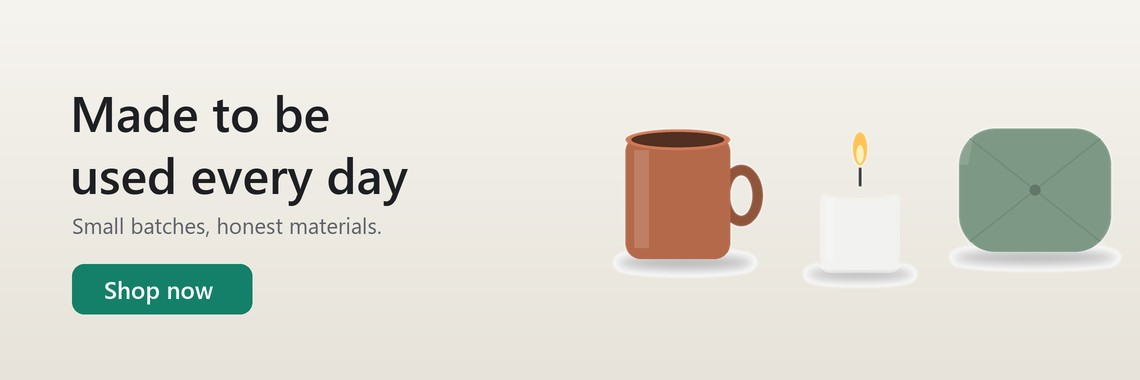
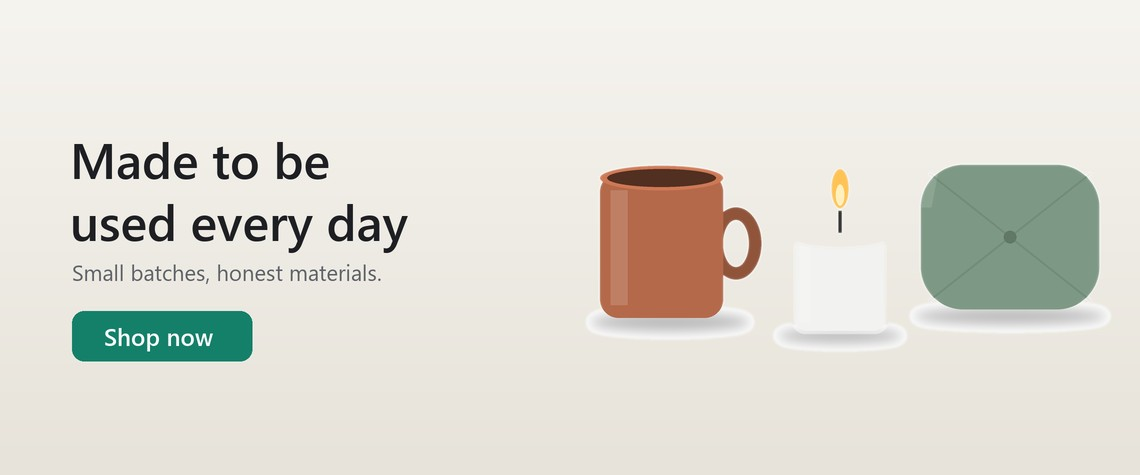
Add-to-cart confirmation as a modal (all themes); home slider 25% taller (1140x475)

diff --git a/assets/src/js/components/cart-added-modal.js b/assets/src/js/components/cart-added-modal.js
@@ -1,0 +1,90 @@
+/**
+ * "Added to cart" confirmation: a modal with the product (picture + name) and
+ * two choices - keep shopping, or go to the cart.
+ *
+ * Replaces the corner toast for a successful add-to-cart (a toast in the
+ * bottom corner is easy to miss and gives no next step). Errors still use
+ * toasts. One `mc-modal` is built on first use and reused, same approach as
+ * `quick-order.js`. Closing goes through the shared
+ * `[data-mc-action="close-modal"]` handler in `modal.js`.
+ *
+ * Called from `product-card.js` after `addToCart()` succeeds, for every
+ * theme: the markup lives here, themes only restyle `.mc-modal` through
+ * tokens. Texts come from the button's data attributes (translated
+ * server-side): `data-mc-text-added` (title), `data-mc-text-continue`,
+ * `data-mc-text-view-cart`, `data-mc-cart-url`.
+ */
+
+import { Modal } from 'bootstrap';
+
+const MODAL_ID = 'mc-cart-added-modal';
+
+function build() {
+    const modal = document.createElement('div');
+
+    modal.className = 'modal mc-modal fade';
+    modal.id = MODAL_ID;
+    modal.tabIndex = -1;
+    modal.setAttribute('aria-labelledby', `${MODAL_ID}-title`);
+    modal.setAttribute('aria-hidden', 'true');
+
+    modal.innerHTML = `
+        <div class="modal-dialog modal-dialog-centered">
+            <div class="modal-content">
+                <div class="modal-header">
+                    <p class="modal-title mc-modal__title" id="${MODAL_ID}-title"></p>
+                    <button type="button" class="mc-modal__close" data-mc-action="close-modal" aria-label="Close">&times;</button>
+                </div>
+                <div class="modal-body">
+                    <div class="mc-cart-added">
+                        <img class="mc-cart-added__image" alt="" width="72" height="72" hidden>
+                        <p class="mc-cart-added__name"></p>
+                    </div>
+                </div>
+                <div class="modal-footer">
+                    <button type="button" class="mc-button mc-button--secondary" data-mc-action="close-modal"></button>
+                    <a class="mc-button mc-button--primary" href="#"></a>
+                </div>
+            </div>
+        </div>
+    `;
+
+    document.body.appendChild(modal);
+
+    return modal;
+}
+
+/** The product picture next to the clicked button: a card image or the product page's main image. */
+function findImage(button) {
+    const scope = button.closest('.mc-product-card') || button.closest('[data-mc-product-form]')?.closest('main, .container') || document;
+    const img = scope.querySelector('.mc-product-card__image, .mc-product-gallery__main, .mc-product-card img');
+
+    return img?.currentSrc || img?.src || '';
+}
+
+export function showCartAdded(button) {
+    const { productName, mcTextAdded, mcTextContinue, mcTextViewCart, mcCartUrl } = button.dataset;
+    const modal = document.getElementById(MODAL_ID) || build();
+
+    modal.querySelector('.mc-modal__title').textContent = mcTextAdded || 'Added to cart';
+    modal.querySelector('.mc-cart-added__name').textContent = productName || '';
+
+    const image = modal.querySelector('.mc-cart-added__image');
+    const src = findImage(button);
+
+    image.hidden = !src;
+
+    if (src) {
+        image.src = src;
+    }
+
+    modal.querySelector('.modal-footer button').textContent = mcTextContinue || 'Continue shopping';
+
+    const link = modal.querySelector('.modal-footer a');
+
+    link.textContent = mcTextViewCart || 'View cart';
+    link.href = mcCartUrl || '#';
+    link.hidden = !mcCartUrl;
+
+    Modal.getOrCreateInstance(modal).show();
+}

diff --git a/assets/src/js/components/product-card.js b/assets/src/js/components/product-card.js
@@ -28,6 +28,9 @@
  * visual toggle" upgrade `add-to-cart` already got. See
  * `docs/developer/commerce/wishlist-service.md`.
  *
+ * A successful `add-to-cart` opens the "Added to cart" modal (`cart-added-modal.js`);
+ * errors stay toasts.
+ *
  * `add-to-cart` calls `MintCart\Commerce\CartService` via
  * `../commerce/cart-client.js`'s `addToCart()` - the first real Phase 15
  * Commerce API consumer. A card needing options it can't offer a picker for
@@ -45,6 +48,7 @@
 import { addToCart } from '../commerce/cart-client.js';
 import { addToWishlist, removeFromWishlist } from '../commerce/wishlist-client.js';
 import { createToast, showToast } from './toast.js';
+import { showCartAdded } from './cart-added-modal.js';
 
 function toggleAction(root, actionName, eventName) {
     root.addEventListener('click', (event) => {
@@ -267,14 +271,8 @@ function initAddToCart(root) {
                 markMissingOptions(form, []);
             }
 
-            const { productName, mcCartUrl, mcTextViewCart } = button.dataset;
-
-            showToast(createToast({
-                title: addedText,
-                message: productName || addedText,
-                variant: 'success',
-                action: mcCartUrl && mcTextViewCart ? { text: mcTextViewCart, href: mcCartUrl } : null,
-            }));
+            // A confirmation with a next step (keep shopping / go to the cart), not a corner toast.
+            showCartAdded(button);
         } catch {
             showToast(createToast({ title: errorText, message: errorText, variant: 'danger' }));
         } finally {

diff --git a/assets/src/css/components/modal.css b/assets/src/css/components/modal.css
@@ -89,3 +89,24 @@
     outline: var(--mc-border-width-thick) solid var(--mc-accent);
     outline-offset: 2px;
 }
+
+/* "Added to cart" confirmation (cart-added-modal.js): picture + product name. */
+.mc-cart-added {
+    display: flex;
+    align-items: center;
+    gap: var(--mc-space-4);
+}
+
+.mc-cart-added__image {
+    flex: none;
+    width: 4.5rem;
+    height: 4.5rem;
+    border-radius: var(--mc-radius-md);
+    object-fit: cover;
+}
+
+.mc-cart-added__name {
+    margin: 0;
+    color: var(--mc-text);
+    font-weight: var(--mc-font-weight-medium);
+}

diff --git a/scripts/demo/build_demo.py b/scripts/demo/build_demo.py
@@ -241,8 +241,9 @@ def render_product(kind, color_name, path_main, path_alt):
 
 
 def render_banner(path, headline, sub, kinds, colors, grad):
-    """1140x380 slide: two-line headline and button on the left, objects right."""
-    c = Canvas(1140, 380, grad[0])
+    """1140x475 slide (25% taller than the first 1140x380 version): headline and button on the left, objects right."""
+    c = Canvas(1140, 475, grad[0])
+    dy = (475 - 380) // 2  # the old layout, centred in the taller canvas
     top, bottom = hex_rgb(grad[0]), hex_rgb(grad[1])
     px = c.img.load()
     for y in range(c.h):
@@ -250,16 +251,16 @@ def render_banner(path, headline, sub, kinds, colors, grad):
         col = tuple(int(top[k] + (bottom[k] - top[k]) * t) for k in range(3))
         for x in range(c.w):
             px[x, y] = col
-    size = 290
+    size = 340
     for i, (kind, color) in enumerate(zip(kinds, colors)):
         layer = Canvas(800, 800, (255, 255, 255))
         draw_shape(layer, kind, hex_rgb(COLORS[color]))
         big = layer.img.resize((size * S, size * S), Image.LANCZOS)
         mask = Image.eval(big.convert('L'), lambda v: 0 if v > 248 else 255).filter(ImageFilter.GaussianBlur(S))
-        c.img.paste(big, ((540 + i * 175) * S, 45 * S), mask)
+        c.img.paste(big, ((500 + i * 170) * S, ((475 - size) // 2) * S), mask)
     c.d = ImageDraw.Draw(c.img, 'RGBA')
     lines = headline.split('|')
-    y = 78
+    y = 78 + dy
     for line in lines:
         c.d.text((70 * S, y * S), line, font=font(50 * S, True), fill=hex_rgb('#1d1f23'))
         y += 62
@@ -267,7 +268,7 @@ def render_banner(path, headline, sub, kinds, colors, grad):
     by = y + 62
     c.d.rounded_rectangle([72 * S, by * S, 252 * S, (by + 50) * S], 12 * S, fill=hex_rgb('#14806a'))
     c.d.text((104 * S, (by + 9) * S), 'Shop now', font=font(24 * S, True), fill=(255, 255, 255))
-    c.result((1140, 380)).save(path, 'JPEG', quality=90)
+    c.result((1140, 475)).save(path, 'JPEG', quality=90)
 
 
 def render_brand(path, name):
@@ -370,6 +371,8 @@ def main():
     # --- home page: featured module, slides, brand carousel --------------
     feat = ','.join('"%d"' % p for p in FEATURED)
     sql.append("UPDATE oc_module SET setting = %s WHERE module_id = 28;" % q('{"name":"Home Page","product":[%s],"limit":"4","width":"600","height":"600","status":"1"}' % feat))
+
+    sql.append("UPDATE oc_module SET setting = '{\"name\":\"Home Page\",\"banner_id\":\"7\",\"width\":\"1140\",\"height\":\"475\",\"status\":\"1\"}' WHERE module_id = 27;")  # home slider, 1140x475
 
     slides = [
         ('hero1.jpg', 'Everyday things,|made well', 'Simple pieces for a calm, comfortable home.', ['mug', 'vase', 'lamp'], ['White', 'Clay', 'Black'], ('#f3f4f6', '#e3e6ea'), 'path=100'),

diff --git a/upload/catalog/controller/product/product.php b/upload/catalog/controller/product/product.php
@@ -286,6 +286,7 @@ class ControllerProductProduct extends Controller {
 			$data['text_added_to_cart'] = $this->language->get('text_added_to_cart');
 			// Add-to-cart toast: product name + "View cart" link (product-card.js).
 			$data['text_view_cart'] = $this->language->get('text_view_cart');
+			$data['text_continue_shopping'] = $this->language->get('text_continue_shopping');
 			$data['cart_url'] = $this->url->link('checkout/cart');
 			$data['text_add_to_cart_error'] = $this->language->get('text_add_to_cart_error');
 			$data['text_wishlist_error'] = $this->language->get('text_wishlist_error');

diff --git a/upload/catalog/controller/mintcart/product_cards.php b/upload/catalog/controller/mintcart/product_cards.php
@@ -69,6 +69,7 @@ class ControllerMintcartProductCards extends Controller {
 			'text_add_to_cart_error' => $this->language->get('text_add_to_cart_error'),
 			'text_wishlist_error'    => $this->language->get('text_wishlist_error'),
 			'text_view_cart'         => $this->language->get('text_view_cart'),
+			'text_continue_shopping' => $this->language->get('text_continue_shopping'),
 			'cart_url'               => $this->url->link('checkout/cart')
 		);
 

diff --git a/upload/catalog/language/en-gb/product/product.php b/upload/catalog/language/en-gb/product/product.php
@@ -42,6 +42,7 @@ $_['text_badge_out_of_stock']  = 'Out of Stock';
 $_['text_badge_new']           = 'New';
 $_['text_added_to_cart']       = 'Added to cart';
 $_['text_view_cart']           = 'View cart';
+$_['text_continue_shopping']   = 'Continue shopping';
 $_['text_add_to_cart_error']   = 'Could not add this product to your cart';
 $_['text_wishlist_error']      = 'Could not update your wishlist';
 

diff --git a/upload/catalog/language/en-gb/mintcart/product_card.php b/upload/catalog/language/en-gb/mintcart/product_card.php
@@ -10,5 +10,6 @@ $_['text_badge_out_of_stock'] = 'Out of Stock';
 $_['text_badge_new']          = 'New';
 $_['text_added_to_cart']      = 'Added to cart';
 $_['text_view_cart']          = 'View cart';
+$_['text_continue_shopping']  = 'Continue shopping';
 $_['text_add_to_cart_error']  = 'Could not add this product to your cart';
 $_['text_wishlist_error']     = 'Could not update your wishlist';

diff --git a/docs/developer/commerce/cart-added-modal.md b/docs/developer/commerce/cart-added-modal.md
@@ -1,0 +1,44 @@
+# "Added to cart" modal
+
+After a successful add-to-cart (product card in any list, or the product page,
+including the sticky buy bar) the storefront opens a modal instead of a corner
+toast: the product picture and name, a **Continue shopping** button and a
+**View cart** button. Errors (could not add, missing option, wishlist failure)
+are still toasts.
+
+Why a modal: a toast in the bottom corner is easy to miss and offers no next
+step.
+
+## How it works
+
+- `assets/src/js/components/cart-added-modal.js` builds one `mc-modal`
+  (Bootstrap Modal underneath, `data-mc-action="close-modal"` for closing) on
+  first use and reuses it. The markup lives in the script, so every theme gets
+  it; themes restyle it through the `.mc-modal` tokens.
+- `product-card.js` calls `showCartAdded(button)` after `addToCart()` succeeds.
+- Texts come from the clicking button's data attributes, translated server-side:
+  `data-mc-text-added` (title), `data-mc-text-continue`, `data-mc-text-view-cart`,
+  `data-mc-cart-url`, `data-product-name`. The three card templates and
+  `product.twig` set them; the strings are `text_added_to_cart`,
+  `text_view_cart`, `text_continue_shopping` (`mintcart/product_card` for cards,
+  `product/product` for the product page).
+- The picture is read from the DOM next to the button (card image or the product
+  page's main image); without one the picture is hidden.
+- CSS: `.mc-cart-added*` in `assets/src/css/components/modal.css`.
+
+## For theme authors
+
+A custom product card must keep the `data-mc-text-continue` attribute next to
+`data-mc-text-added` on its add-to-cart button, otherwise the English default
+"Continue shopping" is used.
+
+## Tests
+
+Checked in headless Edge on the local store: a click on a card's add button
+opens the modal with the product name and the cart link, and no toast appears.
+There is no automated browser test yet.
+
+## Not done
+
+- Quick Order success still uses a toast.
+- No mini cart summary (item count/total) inside the modal.
